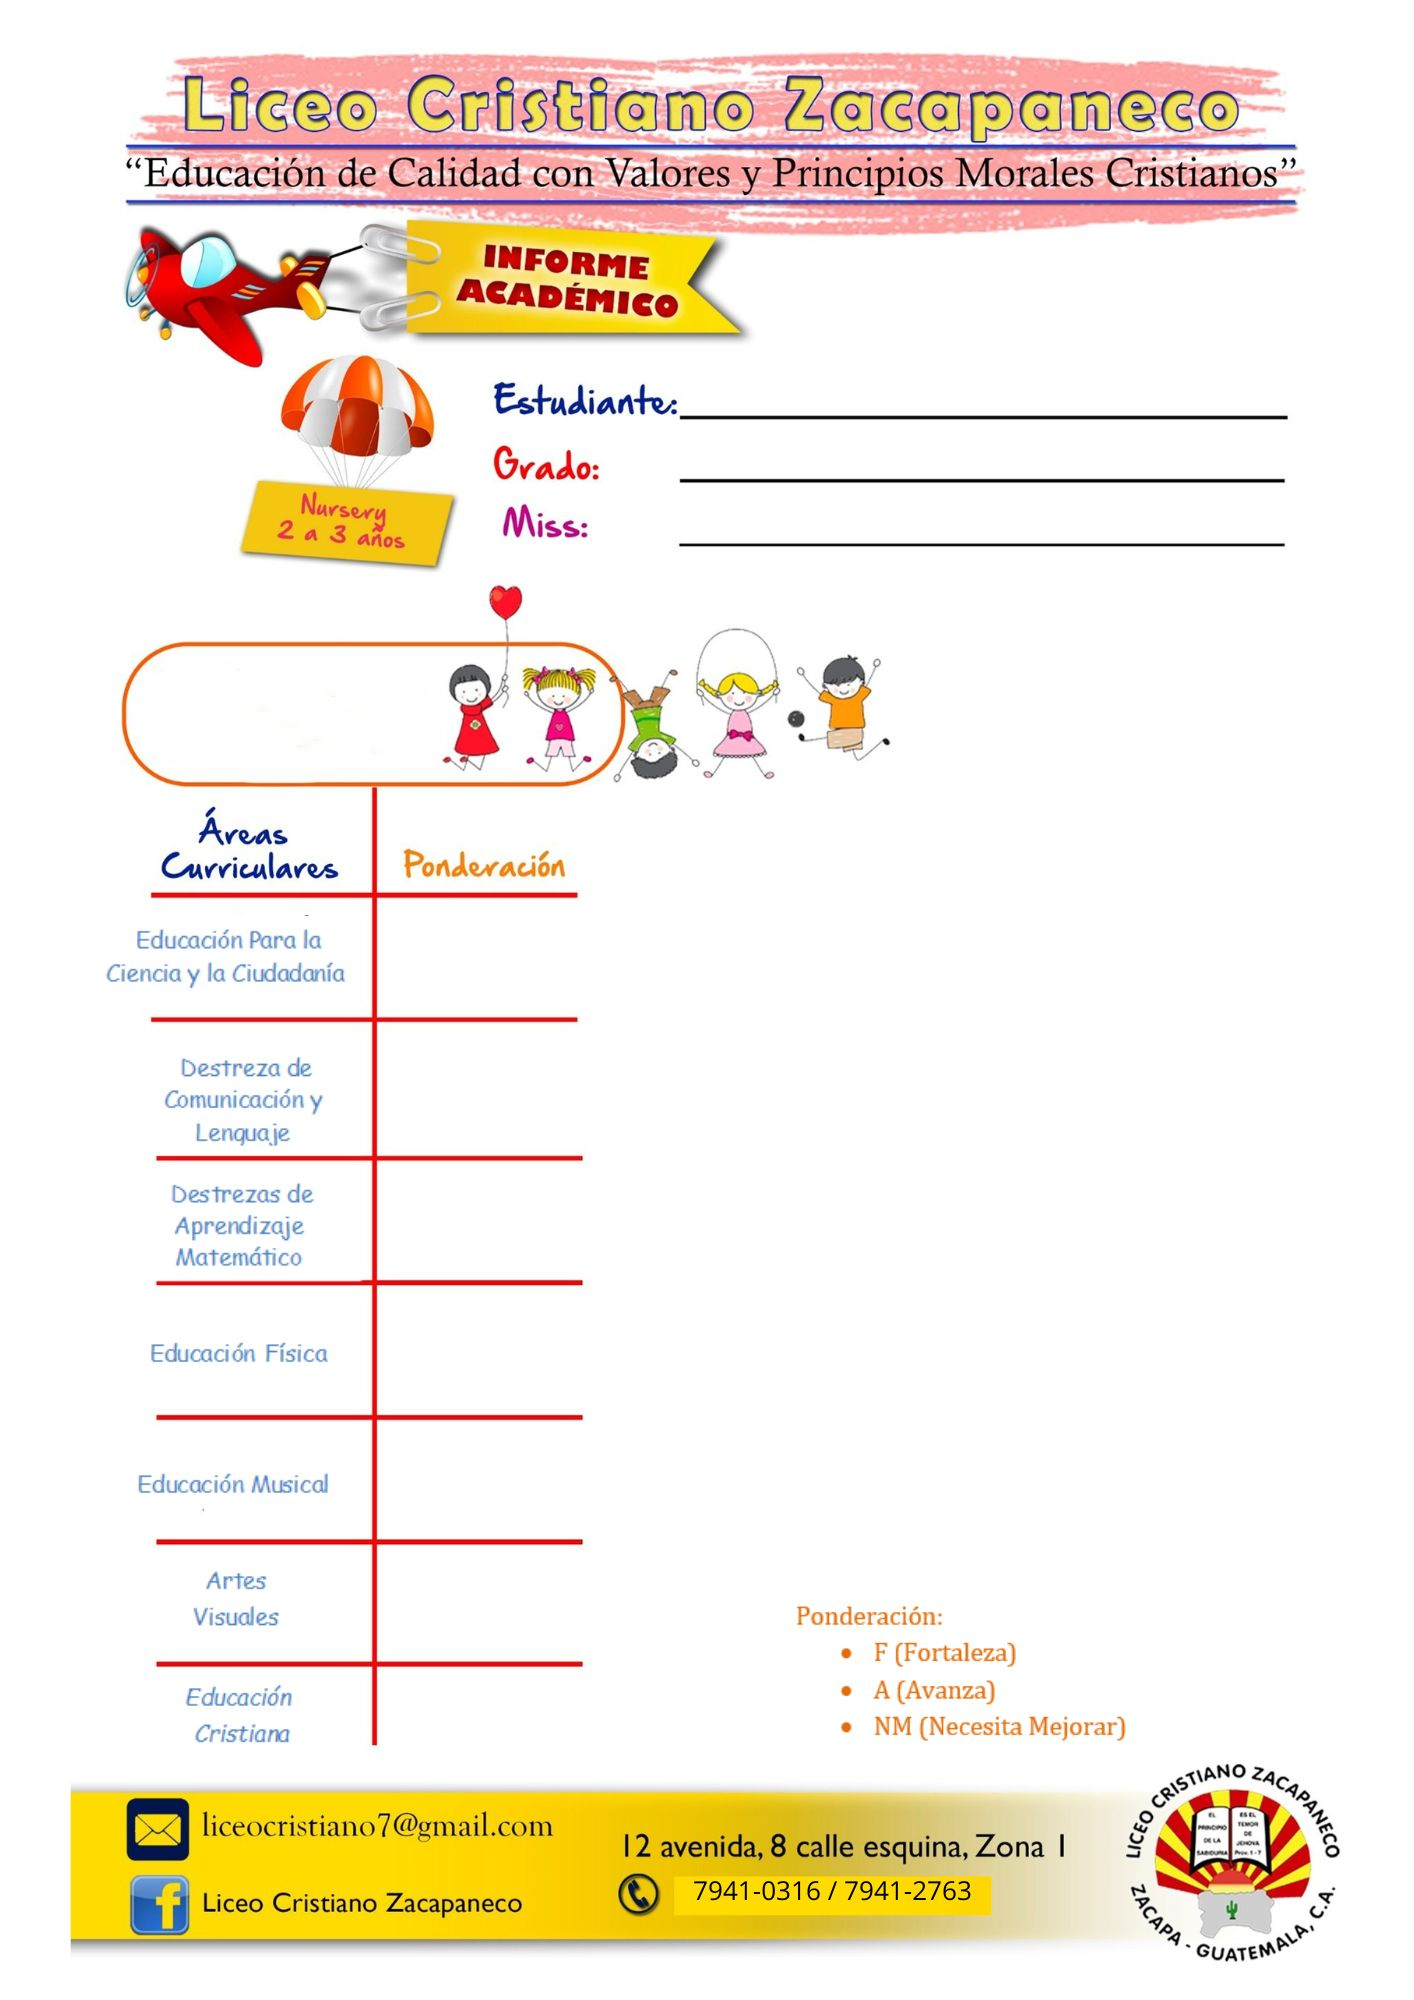
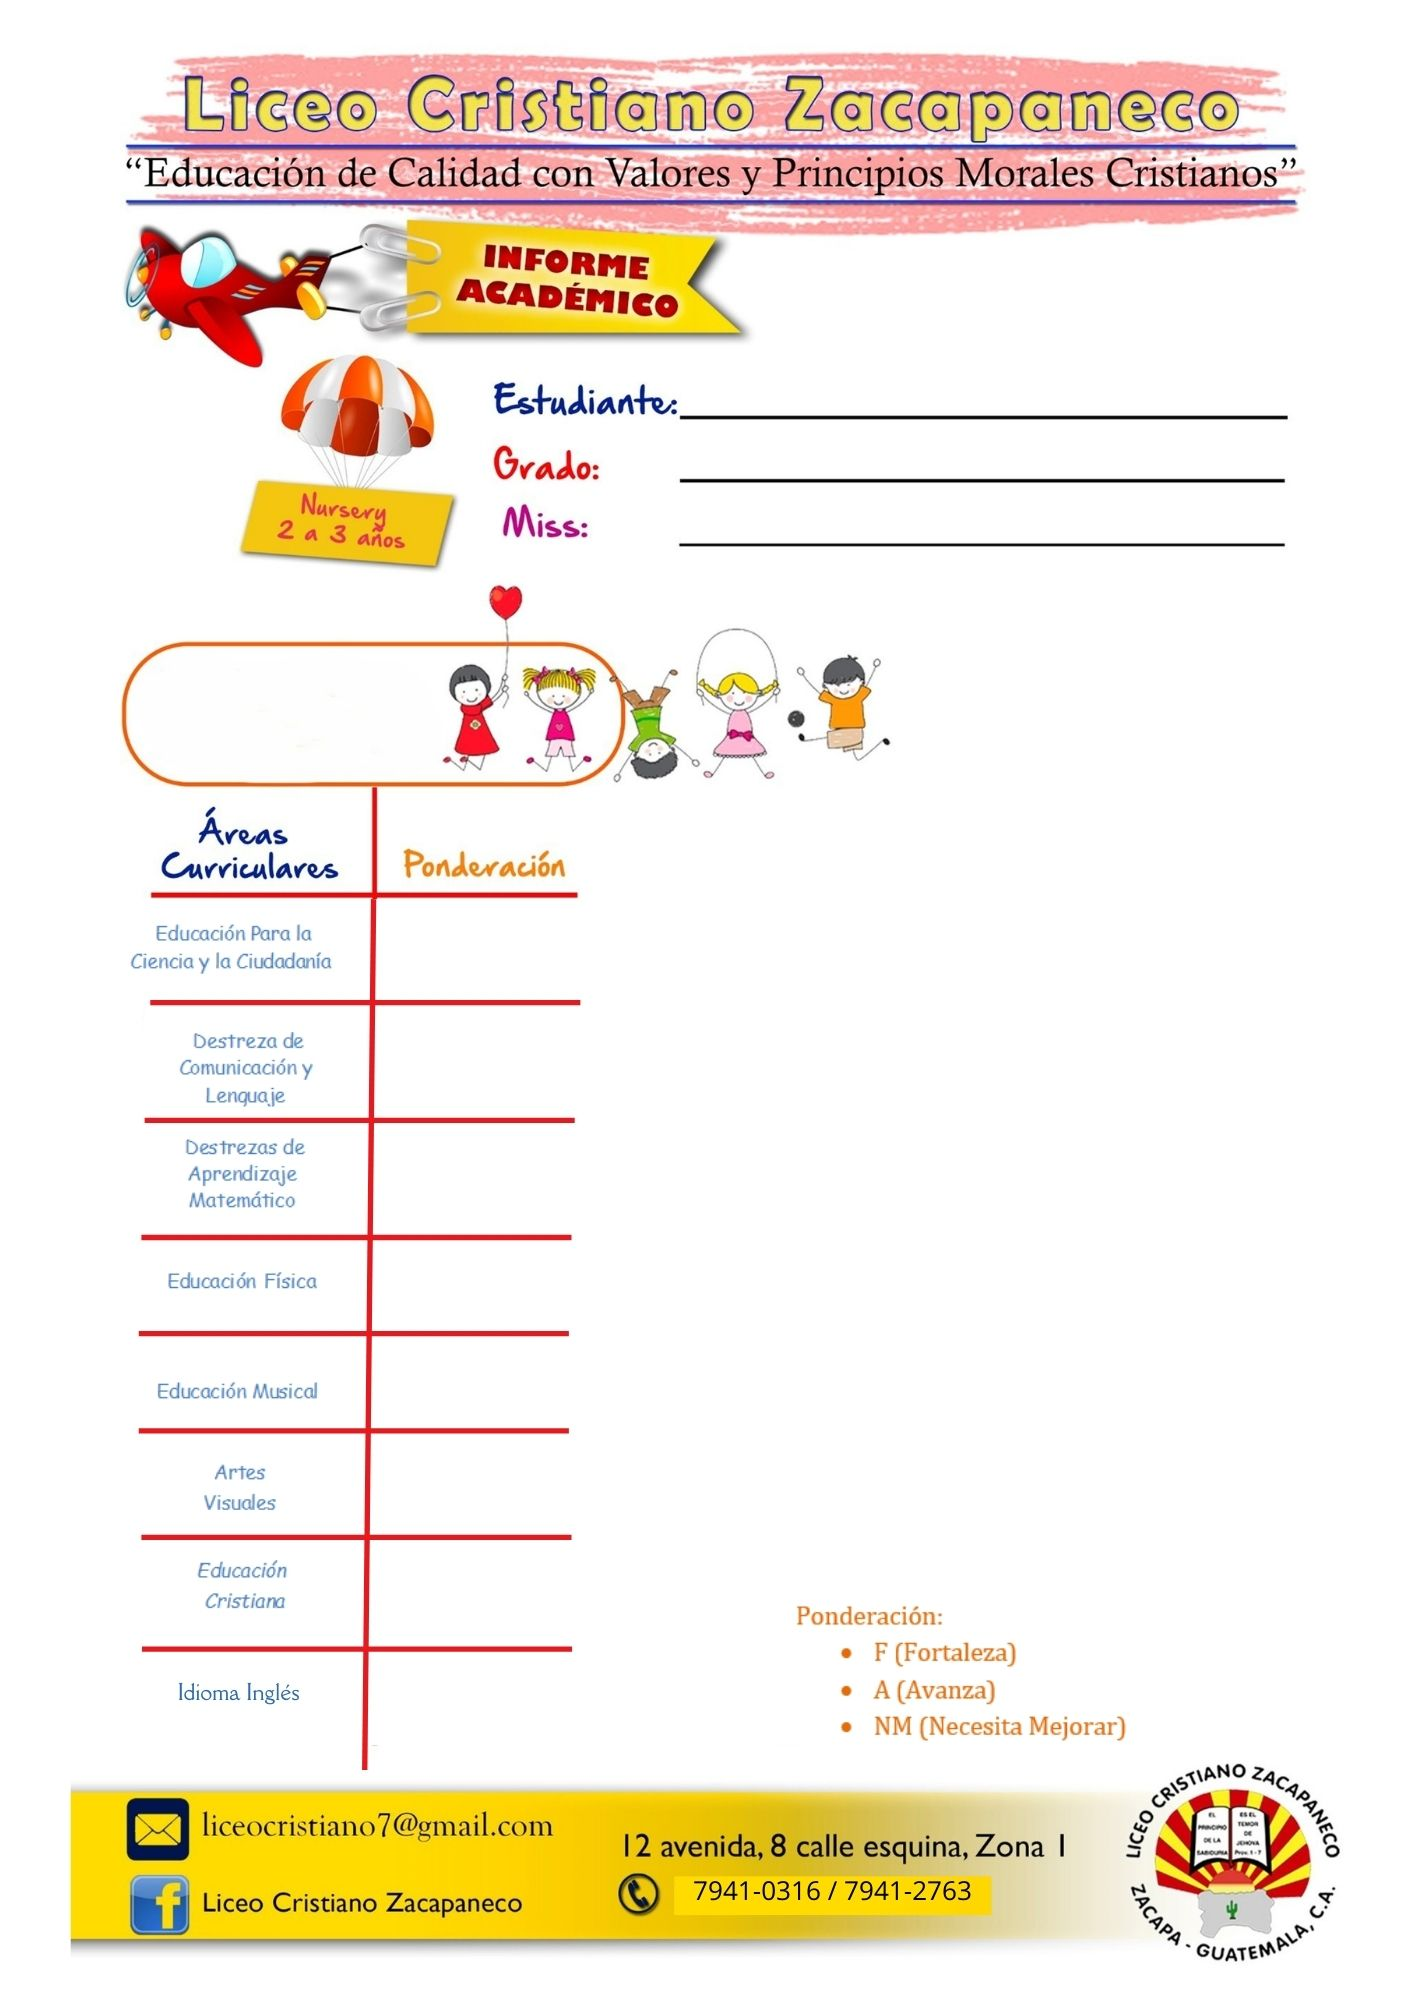
Publicacion 12

diff --git a/src/app/notas/calificaciones/page.tsx b/src/app/notas/calificaciones/page.tsx
@@ -442,6 +442,15 @@ export default function CalificacionesPage() {
       u3: "",
       u4: "",
     },
+       {
+      id_materia: 11,
+      materia: "Idioma Inglés",
+      tipo: "Texto_Prepa",
+      u1: "",
+      u2: "",
+      u3: "",
+      u4: "",
+    }, // ✨ MATERIA AGREGADA AQUI
   ];
   const aspectosPreKinderBase = [
     {
@@ -516,6 +525,7 @@ export default function CalificacionesPage() {
       u3: "",
       u4: "",
     },
+ 
   ];
   const curricularesKinderBase = [
     {
@@ -1096,7 +1106,21 @@ export default function CalificacionesPage() {
       },
     ],
   };
-
+const materiasPrimariaAlta = [
+    { id_materia: 104, materia: "Idioma Materno", tipo: "Numerica", u1: "", u2: "", u3: "", u4: "" },
+    { id_materia: 105, materia: "Tercer Idioma (Inglés)", tipo: "Numerica", u1: "", u2: "", u3: "", u4: "" },
+    { id_materia: 106, materia: "Matemáticas", tipo: "Numerica", u1: "", u2: "", u3: "", u4: "" },
+    { id_materia: 200, materia: "Ciencias Sociales", tipo: "Numerica", u1: "", u2: "", u3: "", u4: "" }, // ✨ NUEVA
+    { id_materia: 246, materia: "Ciencias Naturales", tipo: "Numerica", u1: "", u2: "", u3: "", u4: "" }, // ✨ NUEVA
+    { id_materia: 109, materia: "Expresión Artística", tipo: "Numerica", u1: "", u2: "", u3: "", u4: "" },
+    { id_materia: 110, materia: "Educación Física", tipo: "Numerica", u1: "", u2: "", u3: "", u4: "" },
+    { id_materia: 111, materia: "Formación Ciudadana", tipo: "Numerica", u1: "", u2: "", u3: "", u4: "" },
+    { id_materia: 250, materia: "Productividad y Desarrollo", tipo: "Numerica", u1: "", u2: "", u3: "", u4: "" }, // ✨ NUEVA
+    { id_materia: 112, materia: "Ortografía", tipo: "Numerica", u1: "", u2: "", u3: "", u4: "" },
+    { id_materia: 113, materia: "Artes Plásticas", tipo: "Numerica", u1: "", u2: "", u3: "", u4: "" },
+    { id_materia: 114, materia: "Moral Cristiana", tipo: "Numerica", u1: "", u2: "", u3: "", u4: "" },
+    { id_materia: 115, materia: "Computación", tipo: "Numerica", u1: "", u2: "", u3: "", u4: "" },
+  ];
   const bloquesBasicoBase = {
     1: [
       {
@@ -2127,8 +2151,9 @@ export default function CalificacionesPage() {
               cur = curricularesPreparatoriaBase.map((m) => ({ ...m }));
               asp = aspectosPreparatoriaBase.map((m) => ({ ...m }));
             } else if (esPrimaria) {
+              const esPrimariaAlta = [8, 9, 10].includes(idGFinal); // 8=4to, 9=5to, 10=6to
               blqs = {
-                1: bloquesPrimariaBase[1].map((m) => ({ ...m })),
+                1: esPrimariaAlta ? materiasPrimariaAlta.map((m) => ({ ...m })) : bloquesPrimariaBase[1].map((m) => ({ ...m })),
                 2: bloquesPrimariaBase[2].map((m) => ({ ...m })),
                 3: bloquesPrimariaBase[3].map((m) => ({ ...m })),
                 4: bloquesPrimariaBase[4].map((m) => ({ ...m })),
@@ -2390,7 +2415,7 @@ export default function CalificacionesPage() {
           const finalDisabled = !editable || !unidadActiva;
           const valorNota = parseFloat(m[u]);
           const estaReprobado =
-            m.tipo === "Numerica" && !isNaN(valorNota) && valorNota < 69;
+            m.tipo === "Numerica" && !isNaN(valorNota) && valorNota < 60;
 
           return (
             <td key={u} className="px-1 md:px-3 py-4 text-center">

diff --git a/src/app/notas/calificaciones/BoletaPreKinder.tsx b/src/app/notas/calificaciones/BoletaPreKinder.tsx
@@ -32,7 +32,7 @@ export const BoletaPreKinder = React.forwardRef(({ alumno, unidadActual = 3, ani
         <table className="w-full border-collapse">
           <tbody>
             {(alumno.curriculares || []).map((m: any, idx: number) => (
-              <tr key={`curr-${idx}`} style={{ height: "72px" }}> 
+              <tr key={`curr-${idx}`} style={{ height: "62px" }}> 
                 <td className="w-[400px]"></td>
                 <td className="w-[350px] text-center text-[26px] font-black text-orange-500 italic align-middle pr-8">{m[propNota] || ""}</td>
               </tr>
